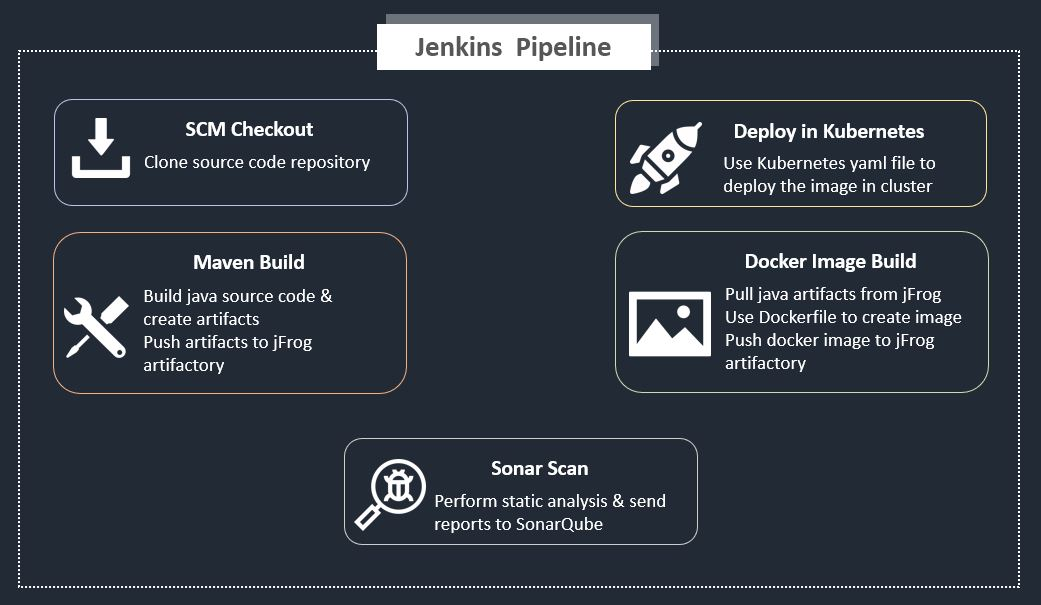
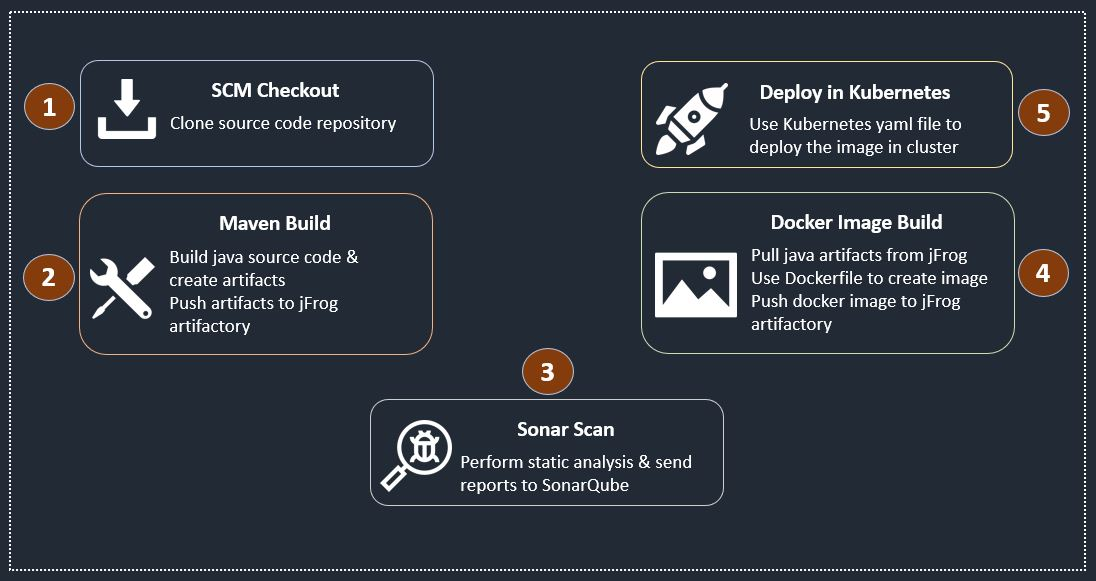
Attaching jenkins pipeline picture in readme

diff --git a/README.md b/README.md
@@ -105,3 +105,5 @@ Installation of Java, Sonarqube, jFrog artifactory in <OTHERS2> using ansible
 ```
 
 <h5>Jenkins Pipeline</h5>
+
+![Jenkins Pipeline](https://github.com/ArghyaChakraborty/tcs-devops-hackathon-prep-project/raw/master/Jenkins-Pipeline.JPG)
